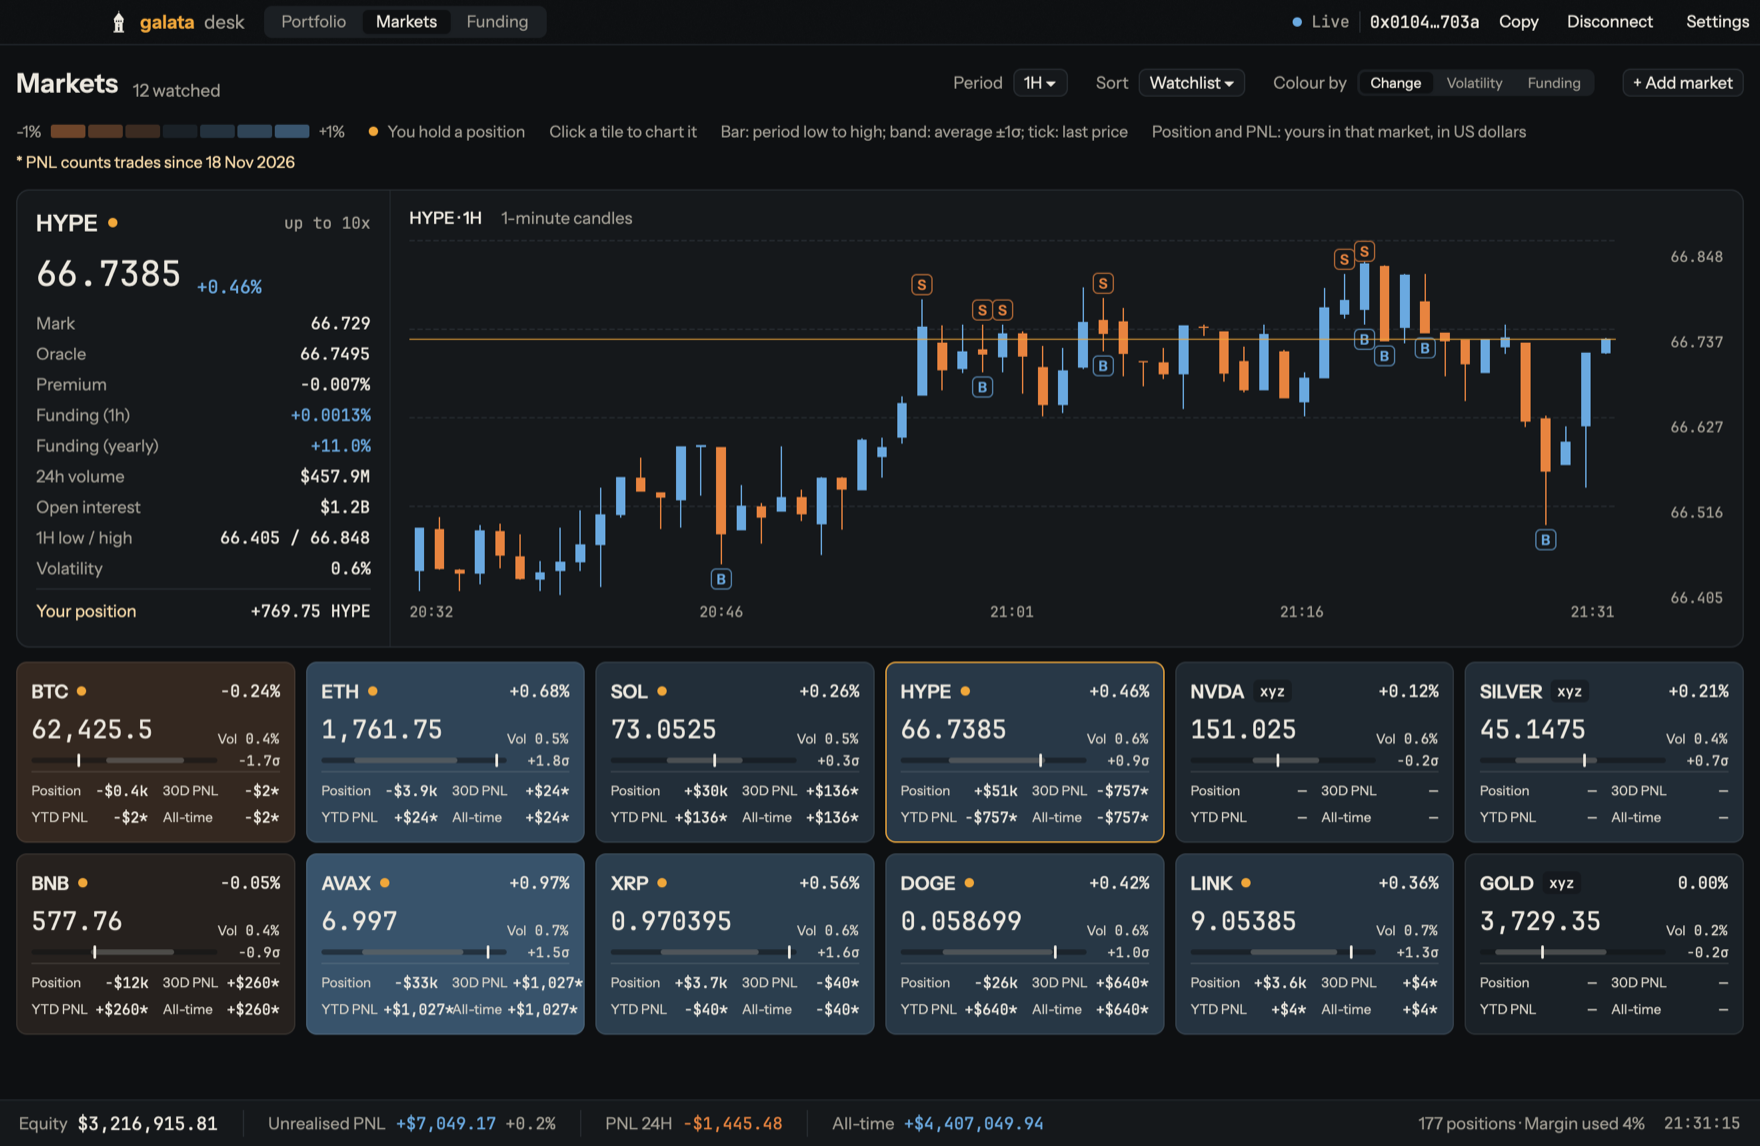
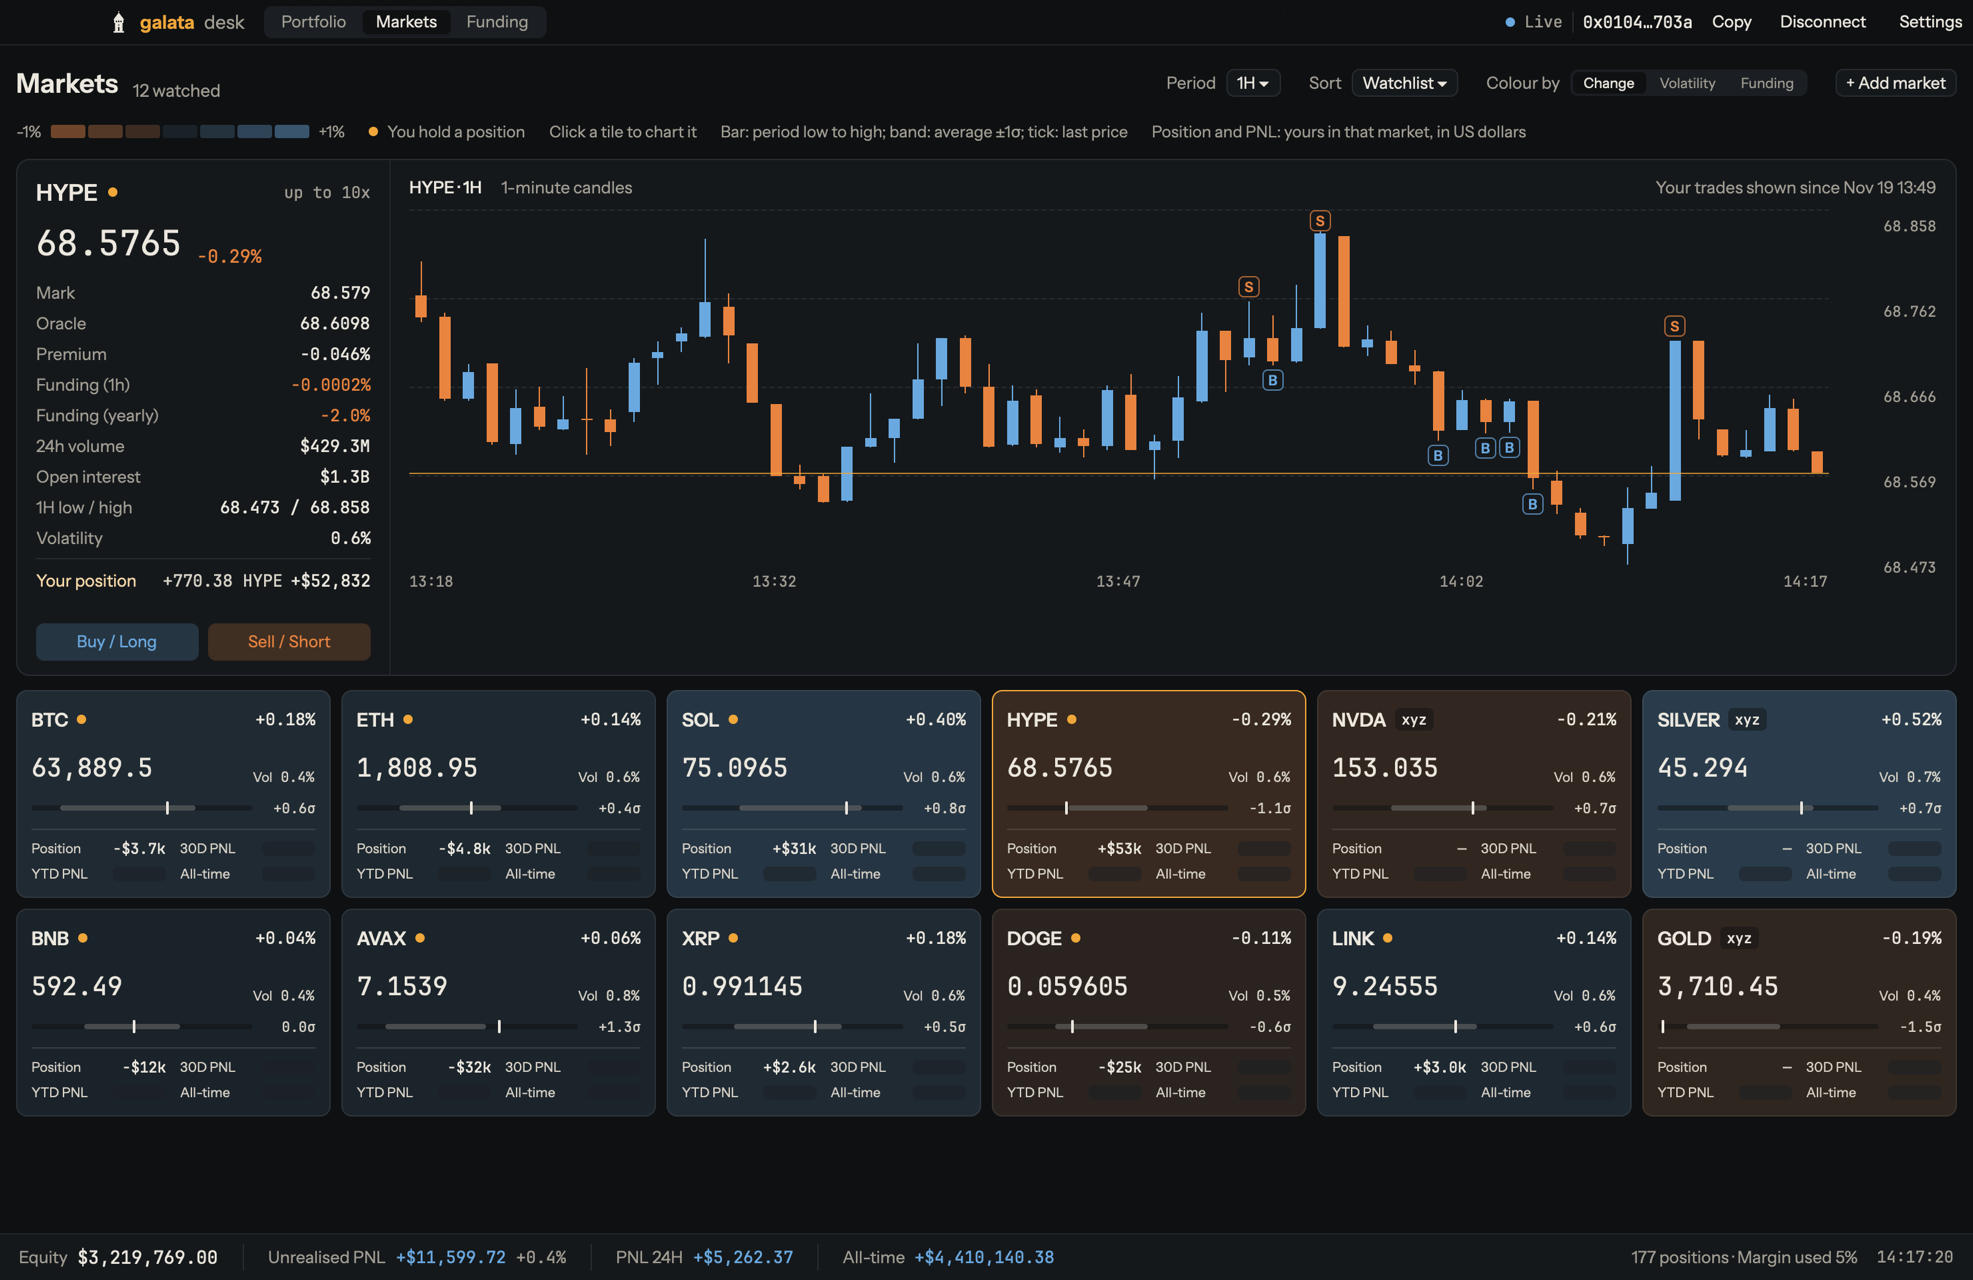
Markets: bigger tiles and window, a quieter legend; signed position value
- Tiles are at least 230 wide (was 196) and 156 tall (was 136); the
  window opens at 1480x960 (was 1320x860), still six columns across.
  The default size is one constant the tests open at.
- The Markets legend drops its three help lines (click a tile, the bar,
  position and PNL); the colour scale and held-position dot remain.
- A short position's value is negative: PositionRow::signed_value gives
  the venue's unsigned value the side's sign. The Portfolio positions
  table shows it so, coloured by side like the size; Markets uses the
  same method.
- README screenshots retaken at the new size, of the same public vault.

diff --git a/crates/galata-desk/src/markets.rs b/crates/galata-desk/src/markets.rs
@@ -41,9 +41,9 @@ use crate::theme::{MONO, Palette};
 use crate::ui;
 
 /// A tile is at least this wide; the grid fits as many columns as that allows.
-const TILE_MIN: f32 = 196.;
+const TILE_MIN: f32 = 230.;
 /// Tall enough for the price, the range bar and the account's strip.
-const TILE_HEIGHT: f32 = 136.;
+const TILE_HEIGHT: f32 = 156.;
 /// The lighter grey of a tile's secondary figures. Readable on the strongest
 /// tile colour (see `market_tile`'s contrast test).
 const SOFT: u32 = 0xd8d3c8;
@@ -574,17 +574,6 @@ impl Markets {
                     .child(div().size(px(7.)).rounded_full().bg(Palette::amber()))
                     .child("You hold a position"),
             )
-            .child("Click a tile to chart it")
-            .child(legend_line(
-                "legend-bar",
-                "Bar: period low to high; band: average \u{b1}1\u{3c3}; tick: last price",
-                Palette::muted(),
-            ))
-            .child(legend_line(
-                "legend-strip",
-                "Position and PNL: yours in that market, in US dollars",
-                Palette::muted(),
-            ))
             .children(account.reaches_from.map(|from| {
                 legend_line(
                     "pnl-since",
@@ -805,7 +794,7 @@ impl Markets {
             let placement = stats.zip(last).map(|(s, last)| s.placement(last));
             let pnl = account.pnl(&market);
             let position_text = position.map(|p| match p {
-                Some(p) => f::usd_k_signed(signed_value(p)),
+                Some(p) => f::usd_k_signed(p.signed_value()),
                 None => DASH.to_string(),
             });
             let window_text = |w: fn(&MarketPnl) -> Option<WindowPnl>| {
@@ -1207,12 +1196,8 @@ impl Markets {
                         h_flex()
                             .gap(px(6.))
                             .font_family(MONO)
-                            .child(
-                                div()
-                                    .text_color(gpui_kit::rgb(SOFT))
-                                    .child(signed_size(p)),
-                            )
-                            .child(f::pnl_rounded(signed_value(p))),
+                            .child(div().text_color(gpui_kit::rgb(SOFT)).child(signed_size(p)))
+                            .child(f::pnl_rounded(p.signed_value())),
                     )
             }))
             .into_any_element()
@@ -1494,15 +1479,6 @@ impl Render for Markets {
 }
 
 const DASH: &str = "\u{2014}";
-
-/// A position's value, signed by its side: negative for a short.
-fn signed_value(position: &PositionRow) -> Decimal {
-    if position.size < Decimal::ZERO {
-        -position.value.abs()
-    } else {
-        position.value.abs()
-    }
-}
 
 /// The tile's range bar: the period's low to high, the usual band, a tick at
 /// the last price, and how far that is from the average.

diff --git a/crates/galata-desk/src/ui_tests.rs b/crates/galata-desk/src/ui_tests.rs
@@ -32,7 +32,14 @@ fn open(
     cx: &mut TestAppContext,
     remembered: bool,
 ) -> (WindowHandle<Root>, Entity<Desk>, tempfile::TempDir) {
-    open_sized(cx, remembered, size(px(1320.), px(860.)))
+    open_sized(
+        cx,
+        remembered,
+        size(
+            px(crate::DEFAULT_WINDOW_WIDTH),
+            px(crate::DEFAULT_WINDOW_HEIGHT),
+        ),
+    )
 }
 
 fn open_sized(
@@ -1649,7 +1656,7 @@ fn position_and_pnl_wait_for_the_account_and_never_show_zeros(cx: &mut TestAppCo
 }
 
 #[gpui_kit::test]
-fn the_legend_explains_the_bar_and_says_when_pnl_is_partial(cx: &mut TestAppContext) {
+fn the_legend_says_when_pnl_is_partial(cx: &mut TestAppContext) {
     let (window, desk, _dir) = open_with(cx, Some(&["BTC"]));
     let markets = go_to_markets(window, &desk, cx);
     cx.update_window(window.into(), |_, window, cx| {
@@ -1664,16 +1671,9 @@ fn the_legend_explains_the_bar_and_says_when_pnl_is_partial(cx: &mut TestAppCont
         );
         markets.update(cx, |_, cx| cx.notify());
         window.render_frame(cx);
-        assert!(
-            text_at(window, "legend-bar")
-                .unwrap()
-                .starts_with("Bar: period low to high")
-        );
-        assert!(
-            text_at(window, "legend-strip")
-                .unwrap()
-                .starts_with("Position and PNL: yours")
-        );
+        // The legend keeps to the colour scale and the held-position dot.
+        assert!(window.try_find("legend-bar").is_none());
+        assert!(window.try_find("legend-strip").is_none());
         assert!(window.try_find("pnl-since").is_none());
         assert_eq!(
             text_at(window, ("tile-all", 0usize)).as_deref(),

diff --git a/crates/galata-desk/src/main.rs b/crates/galata-desk/src/main.rs
@@ -28,6 +28,9 @@ use gpui_kit::{App, Bounds, Global, WindowBounds, WindowOptions, px, size};
 /// panel and one whole row of tiles both fit beneath the toolbar and legend.
 pub const MIN_WINDOW_WIDTH: f32 = 1080.;
 pub const MIN_WINDOW_HEIGHT: f32 = 704.;
+/// The window opens at this size unless `GALATA_DESK_SIZE` says otherwise.
+pub const DEFAULT_WINDOW_WIDTH: f32 = 1480.;
+pub const DEFAULT_WINDOW_HEIGHT: f32 = 960.;
 
 /// What every screen shares: the runtime that does the I/O, and the app's
 /// directory on disk.
@@ -167,7 +170,7 @@ fn main() {
                     let (w, h) = v.split_once('x')?;
                     Some((w.parse().ok()?, h.parse().ok()?))
                 })
-                .unwrap_or((1320., 860.));
+                .unwrap_or((DEFAULT_WINDOW_WIDTH, DEFAULT_WINDOW_HEIGHT));
             let bounds = Bounds::centered(None, size(px(width), px(height)), cx);
             // A screenshot run draws offscreen: its window stays hidden and
             // takes no focus, so it cannot get in the way of other work.

diff --git a/crates/galata-desk-core/tests/model.rs b/crates/galata-desk-core/tests/model.rs
@@ -85,6 +85,19 @@ fn positions_span_dexes_largest_first() {
 }
 
 #[test]
+fn a_short_positions_value_is_negative() {
+    let h = world().holdings();
+    let btc = h.positions.iter().find(|p| p.market == "BTC").unwrap();
+    assert!(
+        btc.value > Decimal::ZERO,
+        "the venue reports value unsigned"
+    );
+    assert_eq!(btc.signed_value(), -btc.value);
+    let nvda = h.positions.iter().find(|p| p.market == "NVDA").unwrap();
+    assert_eq!(nvda.signed_value(), nvda.value);
+}
+
+#[test]
 fn a_position_is_numbered_for_actions_once_its_dexs_markets_are_known() {
     let w = world();
     let h = w.holdings();

diff --git a/crates/galata-desk-core/src/model.rs b/crates/galata-desk-core/src/model.rs
@@ -45,6 +45,16 @@ impl PositionRow {
     pub fn is_long(&self) -> bool {
         self.size >= Decimal::ZERO
     }
+
+    /// The position's value with the side as its sign: negative for a short.
+    /// The venue reports `value` unsigned.
+    pub fn signed_value(&self) -> Decimal {
+        if self.is_long() {
+            self.value.abs()
+        } else {
+            -self.value.abs()
+        }
+    }
 }
 
 /// Which account a balance sits in.

diff --git a/crates/galata-desk/src/portfolio.rs b/crates/galata-desk/src/portfolio.rs
@@ -1046,7 +1046,7 @@ fn position_row(p: &PositionRow, buttons: Cell, tpsl: Cell) -> Vec<Cell> {
     vec![
         market,
         Cell::new(f::size(p.size, &p.market), side),
-        Cell::text(f::usd(p.value)),
+        Cell::new(f::usd(p.signed_value()), side),
         Cell::text(f::price(p.entry)),
         Cell::text(
             p.mark

diff --git a/README.md b/README.md
@@ -38,7 +38,7 @@ The account shown is one of Hyperliquid's own public vaults.
 | | |
 |---|---|
 | ![Portfolio: account value, breakdown, PNL chart and positions](assets/screenshots/portfolio.png) | ![Markets: the selected market's detail and candlestick chart above heatmap tiles](assets/screenshots/markets.png) |
-| **Portfolio.** Summary, breakdown, PNL chart, and the positions table with its Close and TP/SL controls. The footer is beneath. | **Markets.** The panel on a 1-hour chart with the account's fills marked B and S, above tiles coloured by change. |
+| **Portfolio.** Summary, breakdown, PNL chart, and the positions table with its Close and TP/SL controls. The footer is beneath. | **Markets.** The panel, with Buy and Sell, on a 1-hour chart with the account's fills marked B and S, above tiles coloured by change. |
 
 <img src="assets/screenshots/connect.png" alt="The connect page in a browser" width="420">
 
